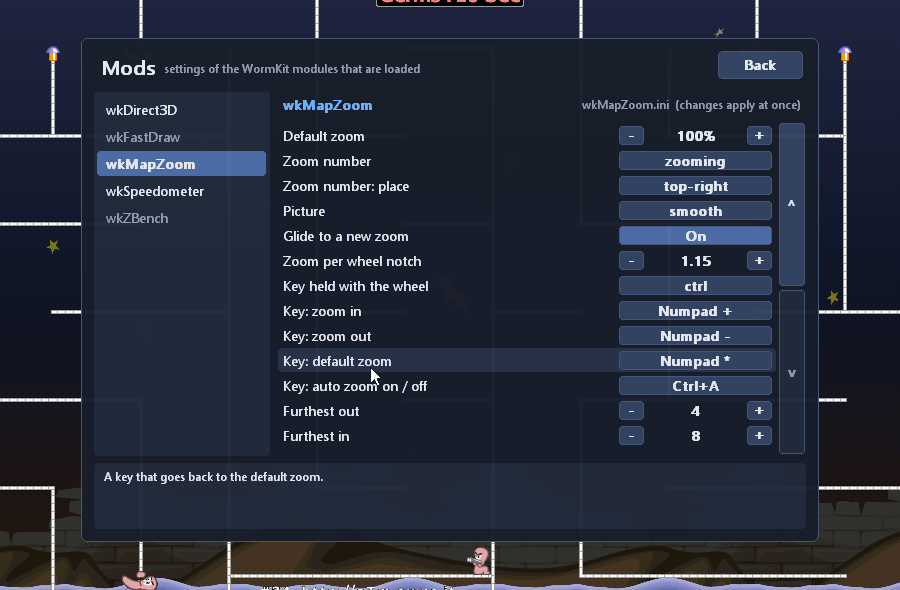
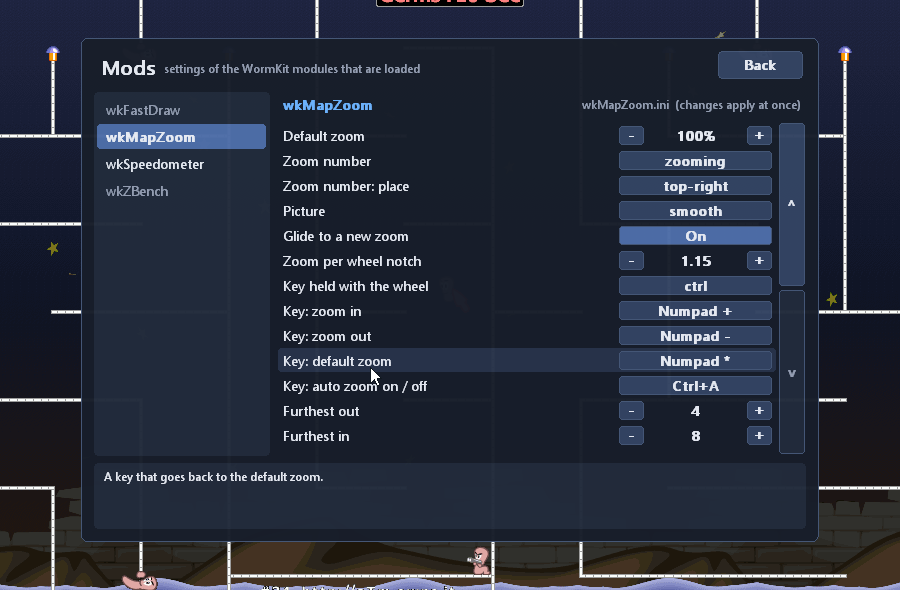
wkModMenu 0.2 beta: the panel is drawn through wkMapZoom 6
wkMapZoom 6 has the graphics card drawing built in; the function that
lays the panel over the picture is looked for there. New pictures.

diff --git a/src/wkModMenu.c b/src/wkModMenu.c
@@ -33,7 +33,8 @@
  * moves its menu pointer (the panel's +0x10 / +0x14, kept inside +0x1C .. +0x28 by 005407D0) and calls ActivateAtCursor
  * at a click. This module leaves all of that running and only: widens the pointer's limits to the whole screen, has
  * WA's own menu not drawn (its drawing function 00535000 is skipped), draws its own panel and pointer after WA's frame
- * (through wkDirect3D in true colour when that is loaded and drawing, else into WA's 8-bit frame in WA's colours), and
+ * (by the graphics card in true colour when wkMapZoom 6 -- or the older wkDirect3D -- is loaded and drawing, else into
+ * WA's 8-bit frame in WA's colours), and
  * takes the clicks. Esc closes it as it closes WA's menu; "Back" gives WA's menu back. Nothing of the game is changed.
  *
  * Hooks (WA 3.8.1 only: WA.exe checked, and the bytes at each hook point): 00533DC0 GameRender, 005356D3 (see above),
@@ -45,7 +46,7 @@
  * by a click on "Mods"), select=<module>, set=<key>,<+|-|next>, scroll=<rows>, point=<x>,<y> (WA's menu pointer put
  * there), click (a click where the pointer is), capture=<key setting> (it waits for a key), back, close (WA's menu
  * closed), say (the state logged);
- * WKMODMENU_NO_GPU=1 never draws through wkDirect3D.
+ * WKMODMENU_NO_GPU=1 never draws through the graphics card.
  * MinHook (third_party/minhook) is BSD licensed. */
 #define WIN32_LEAN_AND_MEAN
 #include <windows.h>
@@ -59,7 +60,7 @@
 #include "MinHook.h"
 #include "image_guard.h"
 
-#define VERSION "0.1 beta"
+#define VERSION "0.2 beta"
 #define WA_BASE 0x400000u
 #define VA(a) ((uintptr_t)(base + ((uintptr_t)(a) - WA_BASE)))
 #define U32(a) (*(uint32_t *)(uintptr_t)(a))
@@ -708,18 +709,31 @@ static void make_arrow(void) {              /* the pointer: a white arrow with a
     arrow_ok = 1;
 }
 
-/* ---- onto the screen: through wkDirect3D, or into WA's frame ---- */
+/* ---- onto the screen: through the graphics-card drawing (wkMapZoom's), or into WA's frame ---- */
 static int (__cdecl *d3d_overlay)(const uint32_t *, int, int, int, int, int);
 static int d3d_looked;
+/* the module that draws on the graphics card: wkMapZoom 6 and newer has that drawing in it; before, it was a module of
+ * its own, wkDirect3D (still used when it is loaded: then it is the one that draws) */
+static HMODULE gpu_module(const char **name) {
+    static const char *const names[2] = {"wkDirect3D.dll", "wkMapZoom.dll"};
+    int i;
+    for (i = 0; i < 2; i++) {
+        const HMODULE m = GetModuleHandleA(names[i]);
+        if (m && GetProcAddress(m, "wkDirect3D_Api") && GetProcAddress(m, "wkDirect3D_Overlay")) { if (name) *name = names[i]; return m; }
+    }
+    return NULL;
+}
+
 static void d3d_find(void) {
-    const HMODULE m = GetModuleHandleA("wkDirect3D.dll");
+    const char *gpu_name = "";
+    const HMODULE m = gpu_module(&gpu_name);
     int (__cdecl *api)(void);
     d3d_looked = 1;
     if (!m || no_gpu) return;
     api = (int (__cdecl *)(void))(void *)GetProcAddress(m, "wkDirect3D_Api");
     if (!api || api() < 1) return;
     d3d_overlay = (int (__cdecl *)(const uint32_t *, int, int, int, int, int))(void *)GetProcAddress(m, "wkDirect3D_Overlay");
-    if (d3d_overlay) say("wkDirect3D is loaded: the panel is drawn through it when it draws the frame");
+    if (d3d_overlay) say("%s draws on the graphics card: the panel is drawn through it when it draws the frame", gpu_name);
 }
 
 /* the shown palette's nearest colour, by 5 bits of red, green and blue (worked out once a colour; started afresh when
@@ -775,7 +789,7 @@ static void show(void) {
     else to_frame(ppre, pw, ph, px0, py0);
     if (!arrow_ok) make_arrow();
     if (!gpu || !d3d_overlay(arrow, 24, 24, 24 * 4, ptr_x, ptr_y)) to_frame(arrow, 24, 24, ptr_x, ptr_y);
-    if (gpu != said) { said = gpu; say("the panel is drawn %s", gpu ? "through wkDirect3D (true colour)" : "into WA's frame (WA's colours)"); }
+    if (gpu != said) { said = gpu; say("the panel is drawn %s", gpu ? "by the graphics card (true colour)" : "into WA's frame (WA's colours)"); }
 }
 
 /* ---- opening, closing, clicking ---- */

diff --git a/README.md b/README.md
@@ -8,8 +8,8 @@ once, and modules that support it apply the change straight away, without restar
 
 ![The Mods panel with wkMapZoom's settings](screenshots/mods-panel.png)
 
-> **Version 0.1 is a beta.** It has been tested on replays in a window on one PC, alone and with wkDirect3D, wkMapZoom
-> and wkSpeedometer and a dozen other modules loaded. If something goes wrong, please
+> **Version 0.2 is a beta.** It has been tested on replays in a window on one PC, alone and with wkMapZoom 6,
+> wkSpeedometer and a dozen other modules loaded. If something goes wrong, please
 > [open an issue](https://github.com/GermsWorms/wkModMenu/issues) with the log (see Notes).
 
 ## What it does
@@ -28,7 +28,7 @@ once, and modules that support it apply the change straight away, without restar
 
 | | In the panel | A change applies |
 |---|---|---|
-| Modules that describe their settings to wkModMenu: [wkMapZoom](https://github.com/GermsWorms/wkMapZoom) 5.1, [wkSpeedometer](https://github.com/GermsWorms/wkSpeedometer) 1.1, [wkDirect3D](https://github.com/GermsWorms/wkDirect3D) 0.5 | every setting with a name, the right kind of control, limits and help; hotkeys as keys | at once |
+| Modules that describe their settings to wkModMenu: [wkMapZoom](https://github.com/GermsWorms/wkMapZoom) (5.1 and newer), [wkSpeedometer](https://github.com/GermsWorms/wkSpeedometer) (1.1 and newer) | every setting with a name, the right kind of control, limits and help; hotkeys as keys | at once |
 | Any other module with an ini file beside `WA.exe` (wkRealTime, wkTerrainSync, wkTrackMeBetter, ...) | what is in its file: numbers get − and + buttons, on / off words a switch, other text is shown only; the comments above a setting are its help | when that module reads its file again, for most at WA's next start |
 | Modules without a settings file | listed in grey | |
 
@@ -52,8 +52,9 @@ a `Z` after `wk` (`wkZRealTime.dll` → `wkRealTime.ini`), without digits at the
 Uninstall: delete `wkModMenu.dll`. To switch it off without removing it, put a file `wkModMenu.ini` next to `WA.exe`
 with the lines `[wkModMenu]` and `Enabled=0`.
 
-It works with every one of WA's renderers. With [wkDirect3D](https://github.com/GermsWorms/wkDirect3D) loaded the
-panel is drawn by the graphics card in full colour; without it, it is drawn into WA's own picture in WA's 256 colours.
+It works with every one of WA's Graphics APIs. With [wkMapZoom](https://github.com/GermsWorms/wkMapZoom) 6 loaded
+(which draws WA's picture on the graphics card) the panel is drawn by the graphics card in full colour; without it, it
+is drawn into WA's own picture in WA's 256 colours.
 
 ## Notes
 
